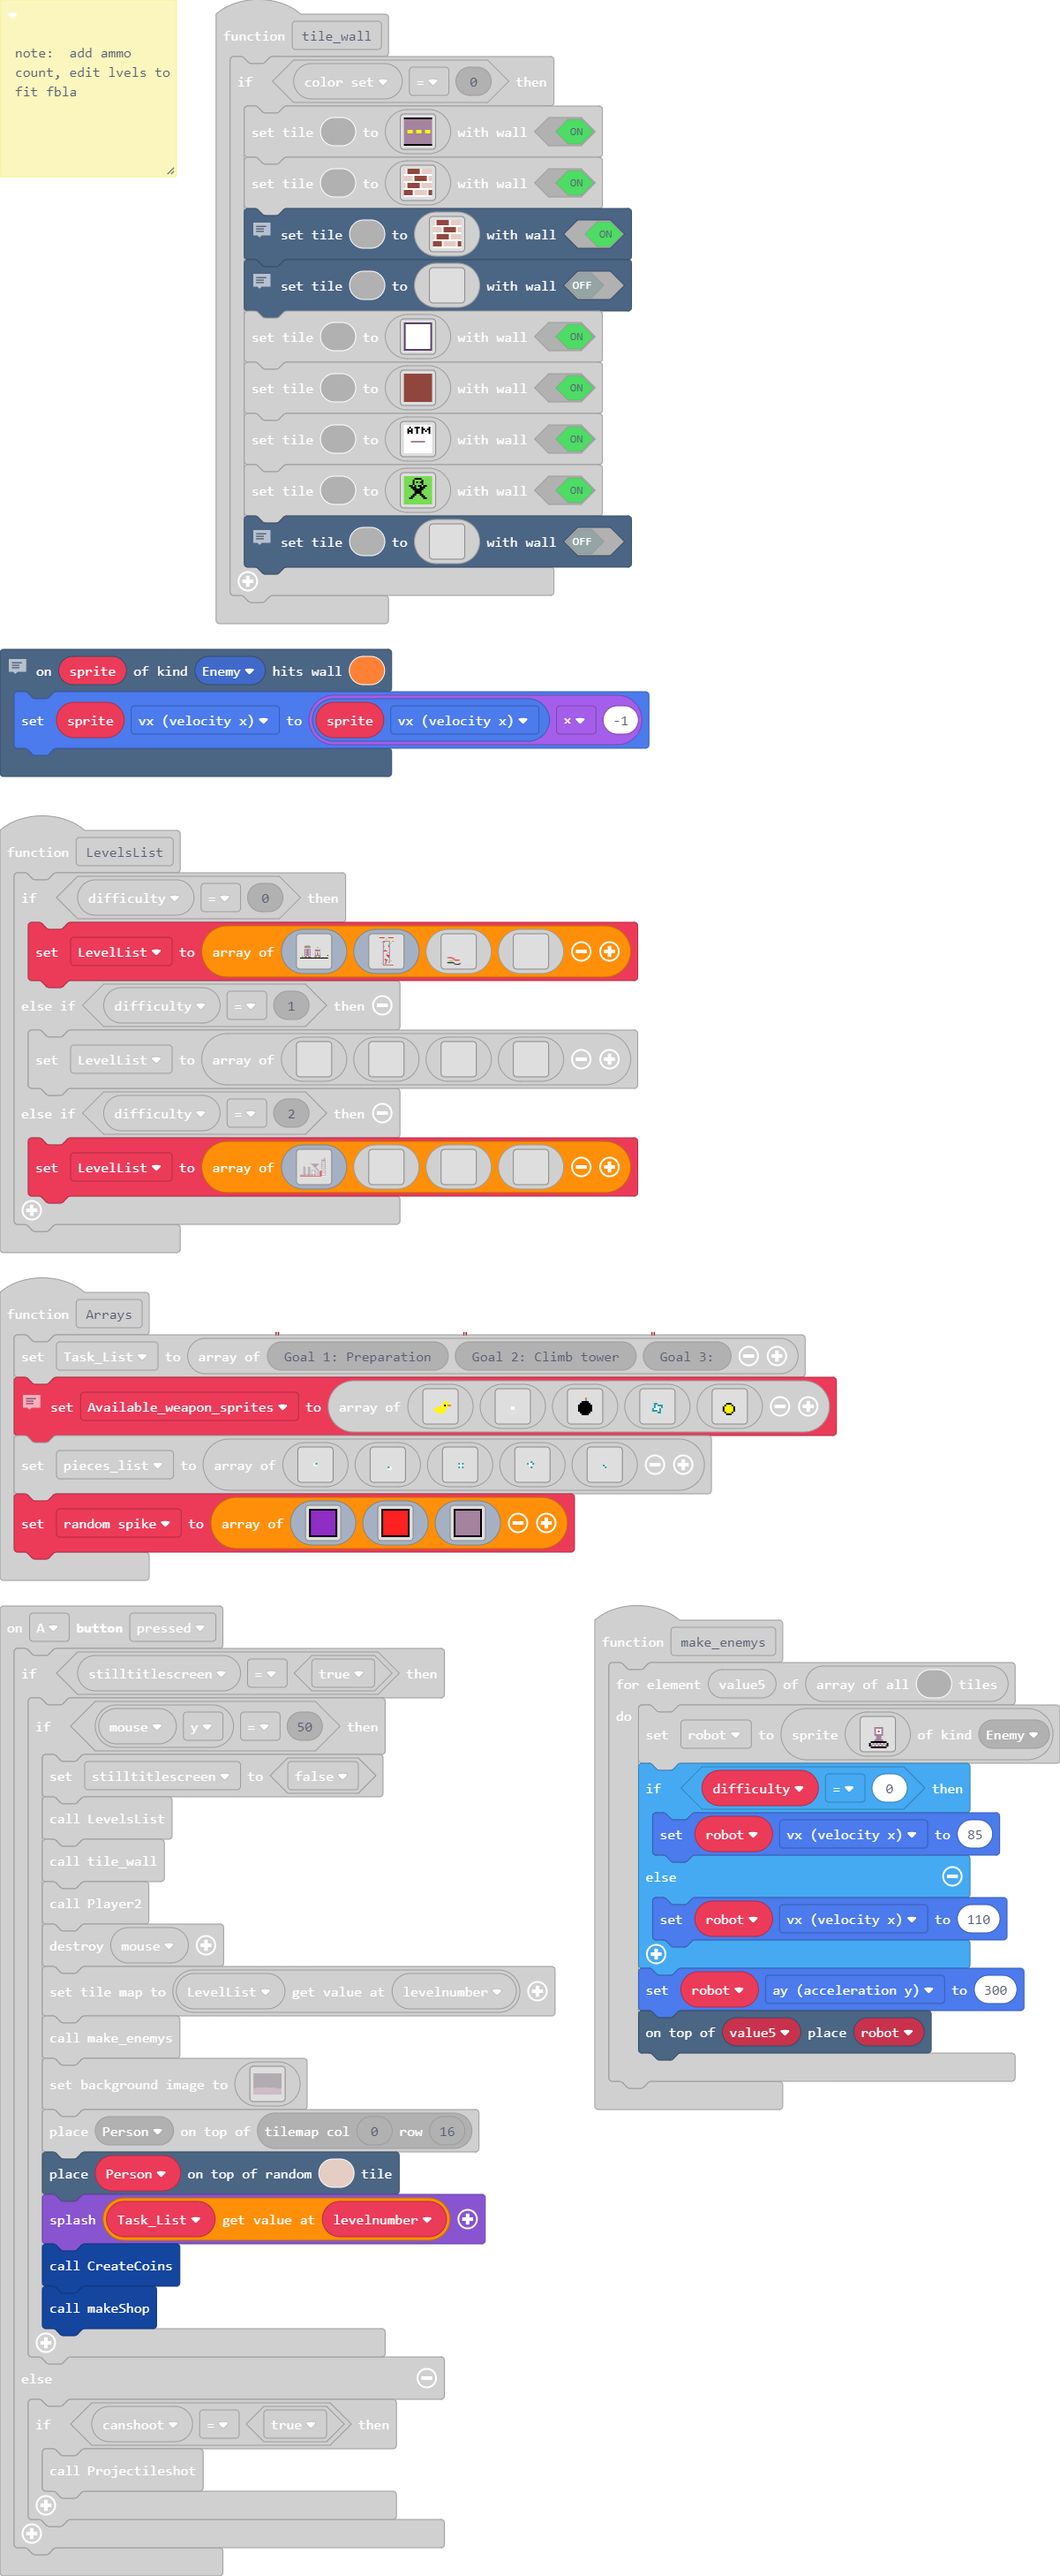
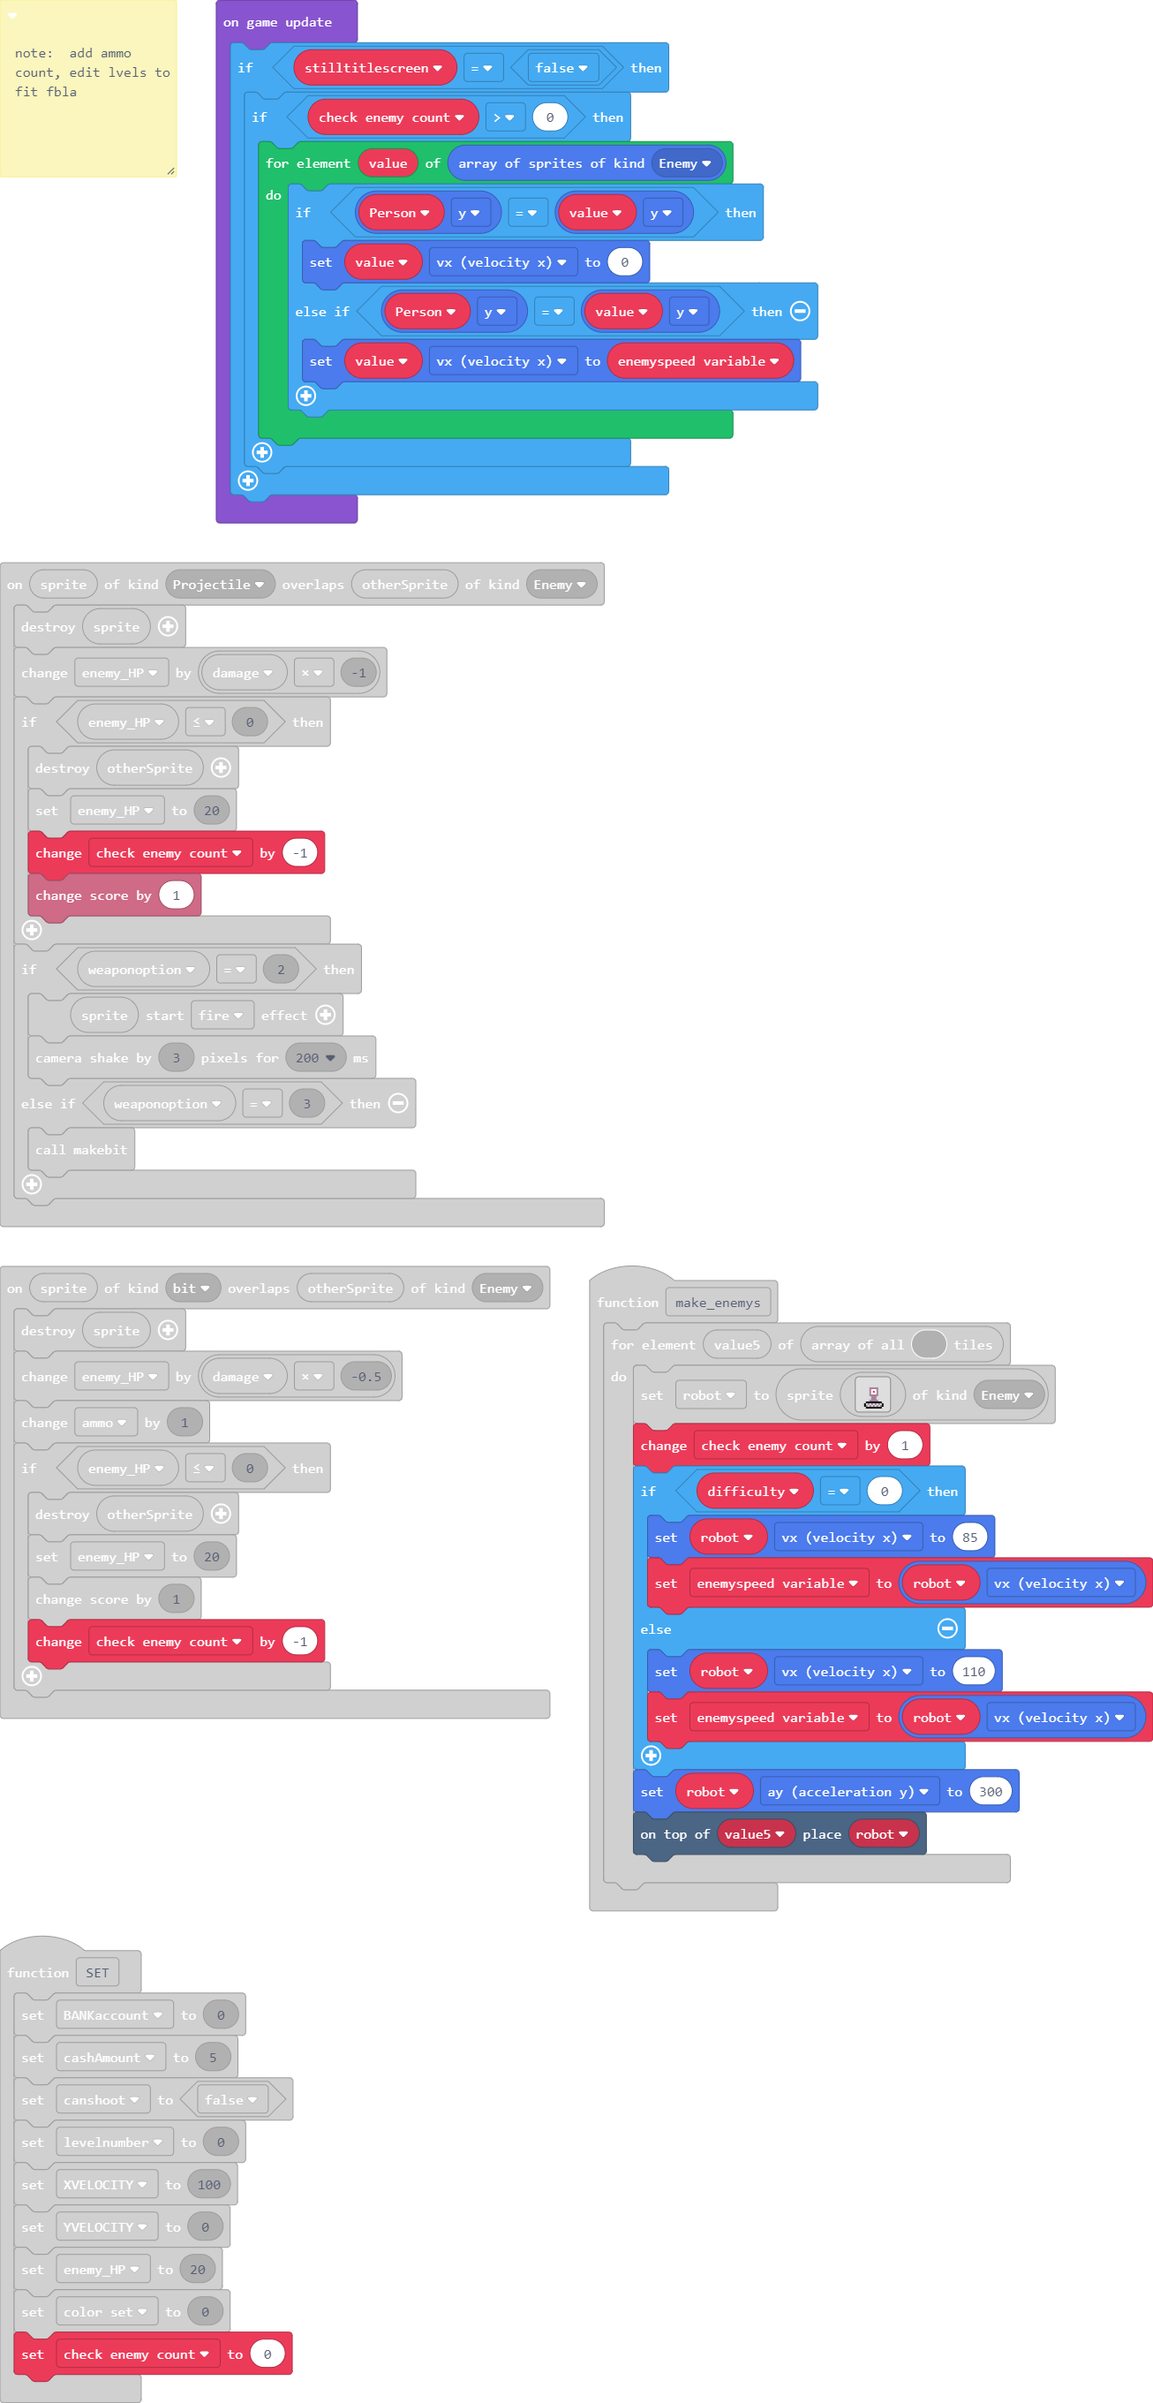
edit speed

diff --git a/main.ts b/main.ts
@@ -1206,6 +1206,7 @@ sprites.onOverlap(SpriteKind.Projectile, SpriteKind.Enemy, function (sprite, oth
     if (enemy_HP <= 0) {
         otherSprite.destroy()
         enemy_HP = 20
+        check_enemy_count += -1
         info.changeScoreBy(1)
     }
     if (weaponoption == 2) {
@@ -1747,6 +1748,7 @@ sprites.onOverlap(SpriteKind.bit, SpriteKind.Enemy, function (sprite, otherSprit
         otherSprite.destroy()
         enemy_HP = 20
         info.changeScoreBy(1)
+        check_enemy_count += -1
     }
 })
 // clears all remains
@@ -1796,10 +1798,13 @@ function make_enemys () {
 . . . f b . b . b . b . b f . . 
 . . . . f f f f f f f f f . . . 
 `, SpriteKind.Enemy)
+        check_enemy_count += 1
         if (difficulty == 0) {
             robot.vx = 85
+            enemyspeed_variable = robot.vx
         } else {
             robot.vx = 110
+            enemyspeed_variable = robot.vx
         }
         robot.ay = 300
         scene.place(value5, robot)
@@ -2010,6 +2015,7 @@ function SET () {
     YVELOCITY = 0
     enemy_HP = 20
     color_set = 0
+    check_enemy_count = 0
 }
 // Missing
 //
@@ -2100,8 +2106,10 @@ info.onLifeZero(function () {
     scene.placeOnRandomTile(Person, 13)
     info.setScore(0)
 })
+let enemyspeed_variable = 0
 let robot: Sprite = null
 let random_spike: Image[] = []
+let check_enemy_count = 0
 let enemy_HP = 0
 let pieces_list: Image[] = []
 let piece: Sprite = null
@@ -2139,6 +2147,19 @@ Title_Screen()
 SET()
 // delete this
 cashAmount += 999
+game.onUpdate(function () {
+    if (stilltitlescreen == false) {
+        if (check_enemy_count > 0) {
+            for (let value of sprites.allOfKind(SpriteKind.Enemy)) {
+                if (Person.y == value.y) {
+                    value.vx = 0
+                } else if (Person.y == value.y) {
+                    value.vx = enemyspeed_variable
+                }
+            }
+        }
+    }
+})
 game.onUpdate(function () {
     if (stilltitlescreen == true) {
         if (mouse.y == 70) {
